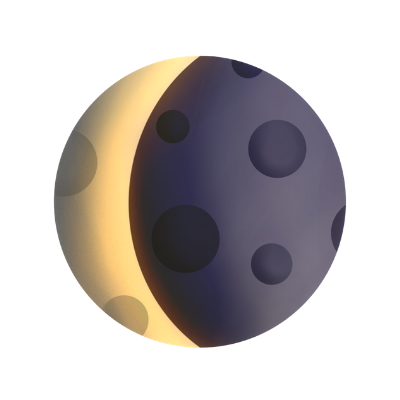
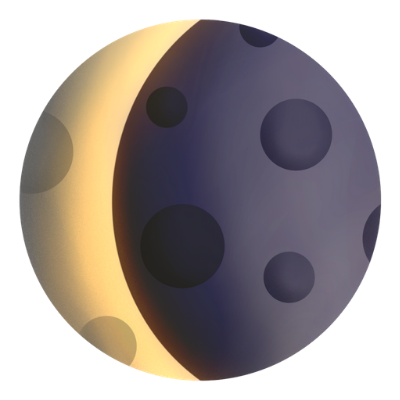
Add image to readme file

diff --git a/README.md b/README.md
@@ -1,3 +1,7 @@
+<a href="https://moon-light.netlify.app/">
+  <img width="150" height="150" src="/src/assets/readme.png">
+</a>
+
 # Moonlight
 
 > Stay connected to the Moon through a beautiful, simple and inspiring homepage. 
